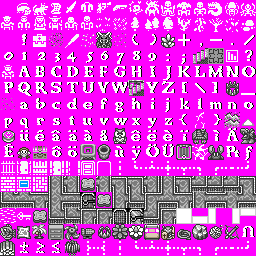
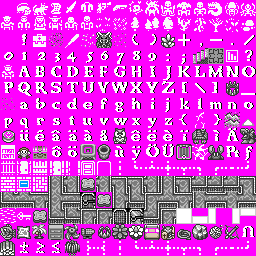
added bookcase plus loot

Changed region(s): [[0.5, 0.3125, 0.5625, 0.375], [0.0, 0.5625, 0.0625, 0.625]]

diff --git a/components/furniture.py b/components/furniture.py
@@ -4,13 +4,15 @@ from typing import TYPE_CHECKING
 import color
 
 import tile_types
+import entity_factories
 
 from components.base_components import BaseComponent
 
 from render_order import RenderOrder
 
+
 if TYPE_CHECKING:
-    from entity import Actor
+    from entity import Actor, Item
 
 
 class Door(BaseComponent):
@@ -72,6 +74,94 @@ class Door(BaseComponent):
         self.parent.blocks_movement = False
         self.parent.ai = None
         self.parent.name = f"Open {self.parent.name}"
+        self.parent.render_order = RenderOrder.CORPSE
+
+        self.engine.message_log.add_message(death_message, death_message_color)
+
+        self.engine.player.level.add_xp(self.parent.level.xp_given)
+
+    def heal(self, amount: int) -> int:
+        if self.hp == self.max_hp:
+            return 0
+
+        new_hp_value = self.hp + amount
+
+        if new_hp_value > self.max_hp:
+            new_hp_value = self.max_hp
+
+        amount_recovered = new_hp_value - self.hp
+
+        self.hp = new_hp_value
+
+        return amount_recovered
+
+    def take_damage(self, amount: int) -> None:
+        self.hp -= amount
+
+class Searchable(BaseComponent):
+    parent: Actor
+
+    def __init__(self, hp: int, base_defense: int, base_power: int, char_open: str = "?", loot: str = "?"):
+        self.max_hp = hp
+        self._hp = hp
+        self.base_defense = base_defense
+        self.base_power = base_power
+        self.char_open = char_open
+        self.loot = loot
+
+    @property
+    def hp(self) -> int:
+        return self._hp
+
+    @hp.setter
+    def hp(self, value: int) -> None:
+        self._hp = max(0, min(value, self.max_hp))
+        if self._hp == 0 and self.parent.ai:
+            self.die()
+
+    @property
+    def defense(self) -> int:
+        return self.base_defense + self.defense_bonus
+
+    @property
+    def power(self) -> int:
+        return self.base_power + self.power_bonus
+
+    @property
+    def defense_bonus(self) -> int:
+        if self.parent.equipment:
+            return self.parent.equipment.defense_bonus
+        else:
+            return 0
+
+    @property
+    def power_bonus(self) -> int:
+        if self.parent.equipment:
+            return self.parent.equipment.power_bonus
+        else:
+            return 0
+
+    def die(self) -> None:
+        if self.engine.player is self.parent:
+            death_message = "You died!"
+            death_message_color = color.player_die
+
+        else:
+            death_message = f"You searched the {self.parent.name} and found {getattr(entity_factories, self.loot).name}!"
+            death_message_color = color.enemy_die
+
+        x = self.engine.player.x
+        y = self.engine.player.y
+
+
+        getattr(entity_factories, self.loot).spawn(self.parent.parent.gamemap, x, y)  #places loot on player position
+
+
+        self.parent.char = self.char_open
+        self.parent.color = (191, 121, 88)
+        self.parent.blocks_movement = True
+        self.parent.ai = None
+        self.parent.name = f"I already searched that {self.parent.name}"
         self.parent.render_order = RenderOrder.CORPSE
 
         self.engine.message_log.add_message(death_message, death_message_color)

diff --git a/procgen.py b/procgen.py
@@ -17,7 +17,7 @@ if TYPE_CHECKING:
     from entity import Entity
 
 max_items_by_floor = [
-    (1, 1),
+    (1, 3),
     (4, 2),
 ]
 
@@ -34,7 +34,7 @@ max_doors_by_floor = [
 ]
 
 item_chances: Dict[int, List[Tuple[Entity, int]]] = {
-    0: [(entity_factories.health_potion, 35), (entity_factories.fireball_scroll, 20), (entity_factories.confusion_scroll, 45)],
+    0: [(entity_factories.health_potion, 5), (entity_factories.fireball_scroll, 5), (entity_factories.bookcase, 90)],
     2: [(entity_factories.confusion_scroll, 10)],
     4: [(entity_factories.lightning_scroll, 25), (entity_factories.sword, 5)],
     6: [(entity_factories.fireball_scroll, 25), (entity_factories.chain_mail, 15)],
@@ -376,6 +376,7 @@ def generate_arkham(
 
         #grass
         dungeon.tiles[15:20, 15:30] = tile_types.grass
+        entity_factories.health_potion.spawn(dungeon, 15, 15)
 
         #flower
         dungeon.tiles[17, 16] = tile_types.flowers

diff --git a/entity_factories.py b/entity_factories.py
@@ -4,6 +4,7 @@ from components.equipment import Equipment
 from components.fighter import Fighter
 from components.furniture import Door
 from components.inventory import Inventory
+from components.furniture import Searchable
 from components.level import Level
 from entity import Actor, Item
 
@@ -46,7 +47,16 @@ hound = Actor(
 )
 
 """-------Furniture-------"""
-
+bookcase = Actor(
+    char=chr(0xC9),
+    color=(191, 121, 88),
+    name="Bookcase",
+    ai_cls=StandingEnemy,
+    equipment=Equipment(),
+    fighter=Searchable(hp=1, base_defense=0, base_power=4, char_open=chr(0xC9), loot="sword"),
+    inventory=Inventory(capacity=0),
+    level=Level(xp_given=0),
+)
 
 """-------Doors-------"""
 wooden_door = Actor(
